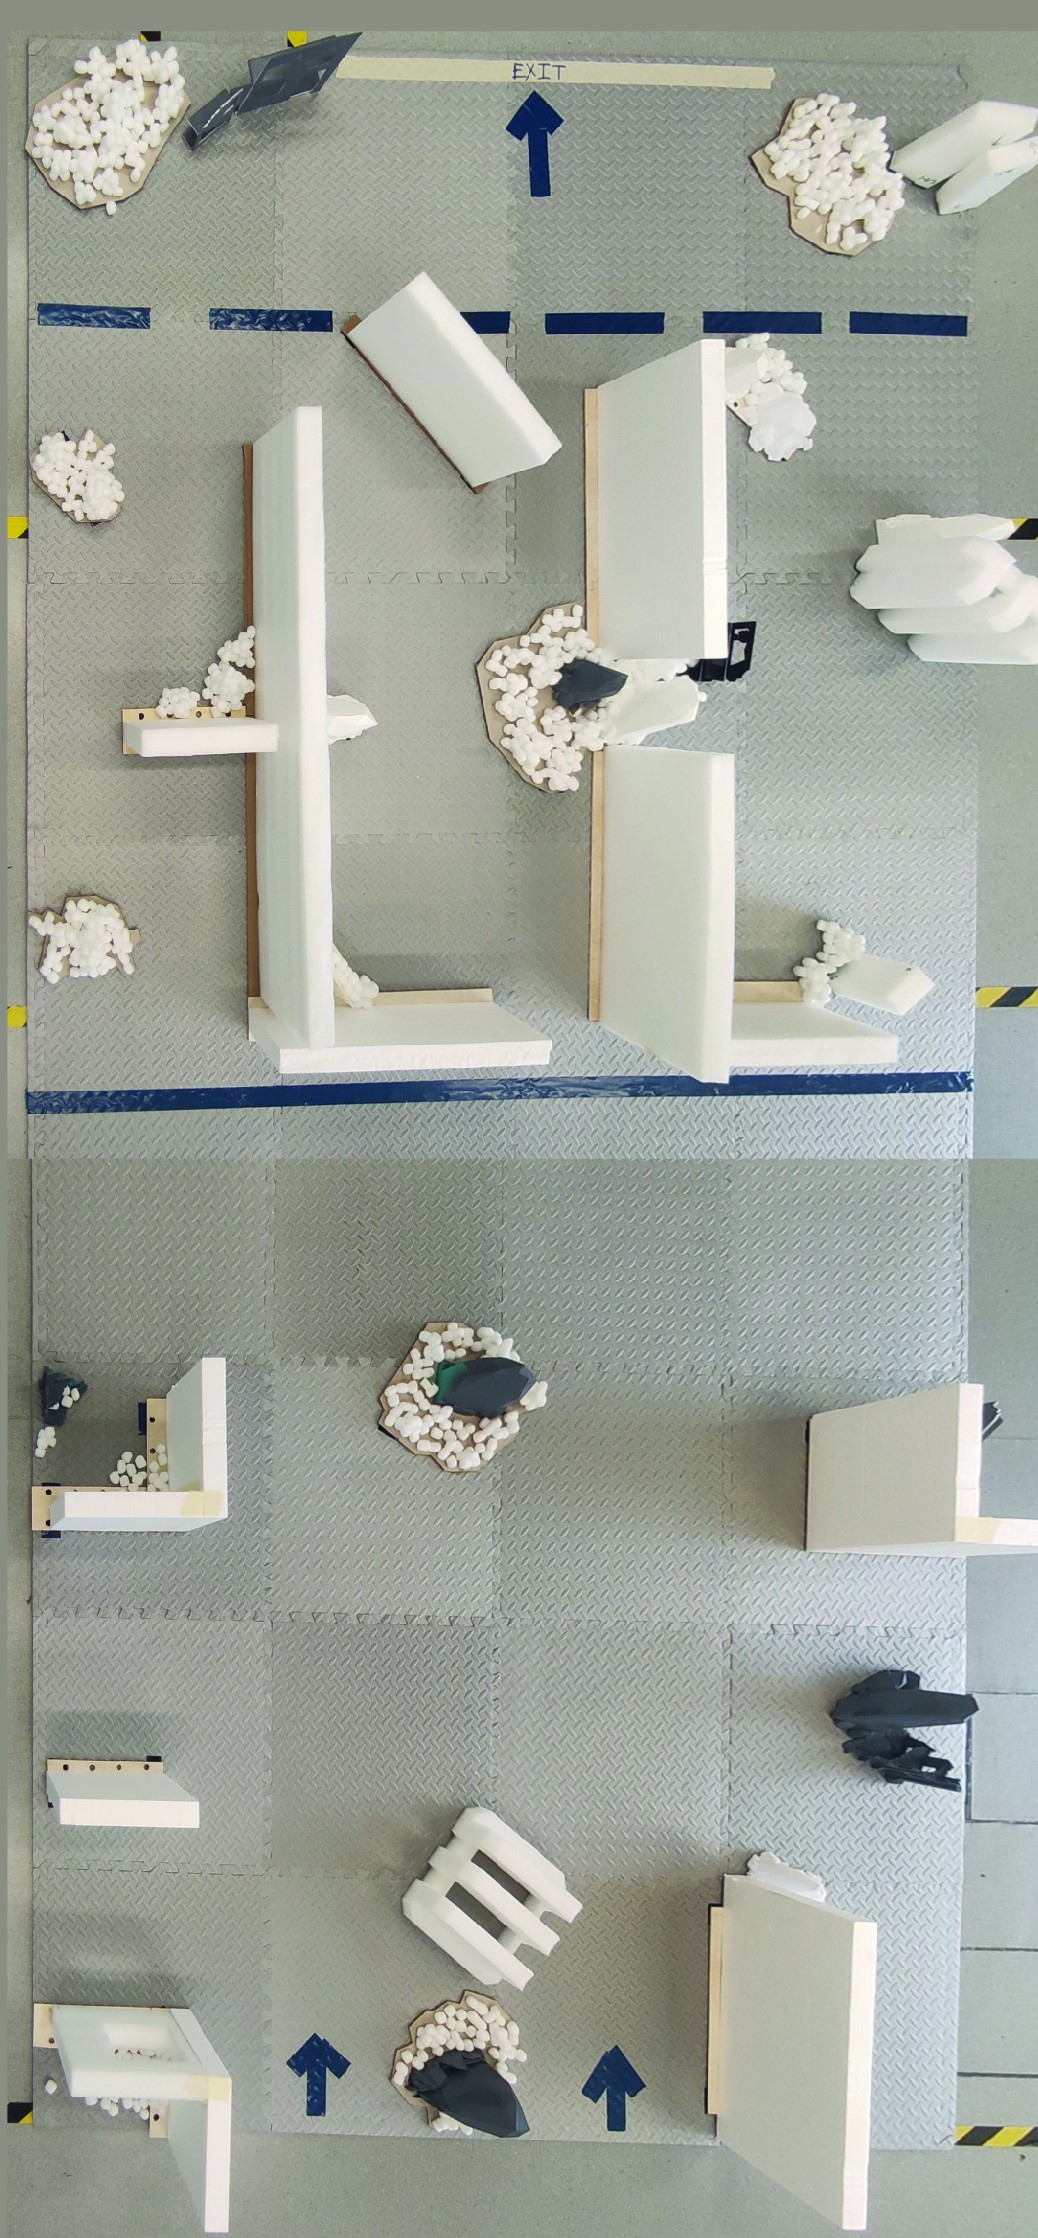
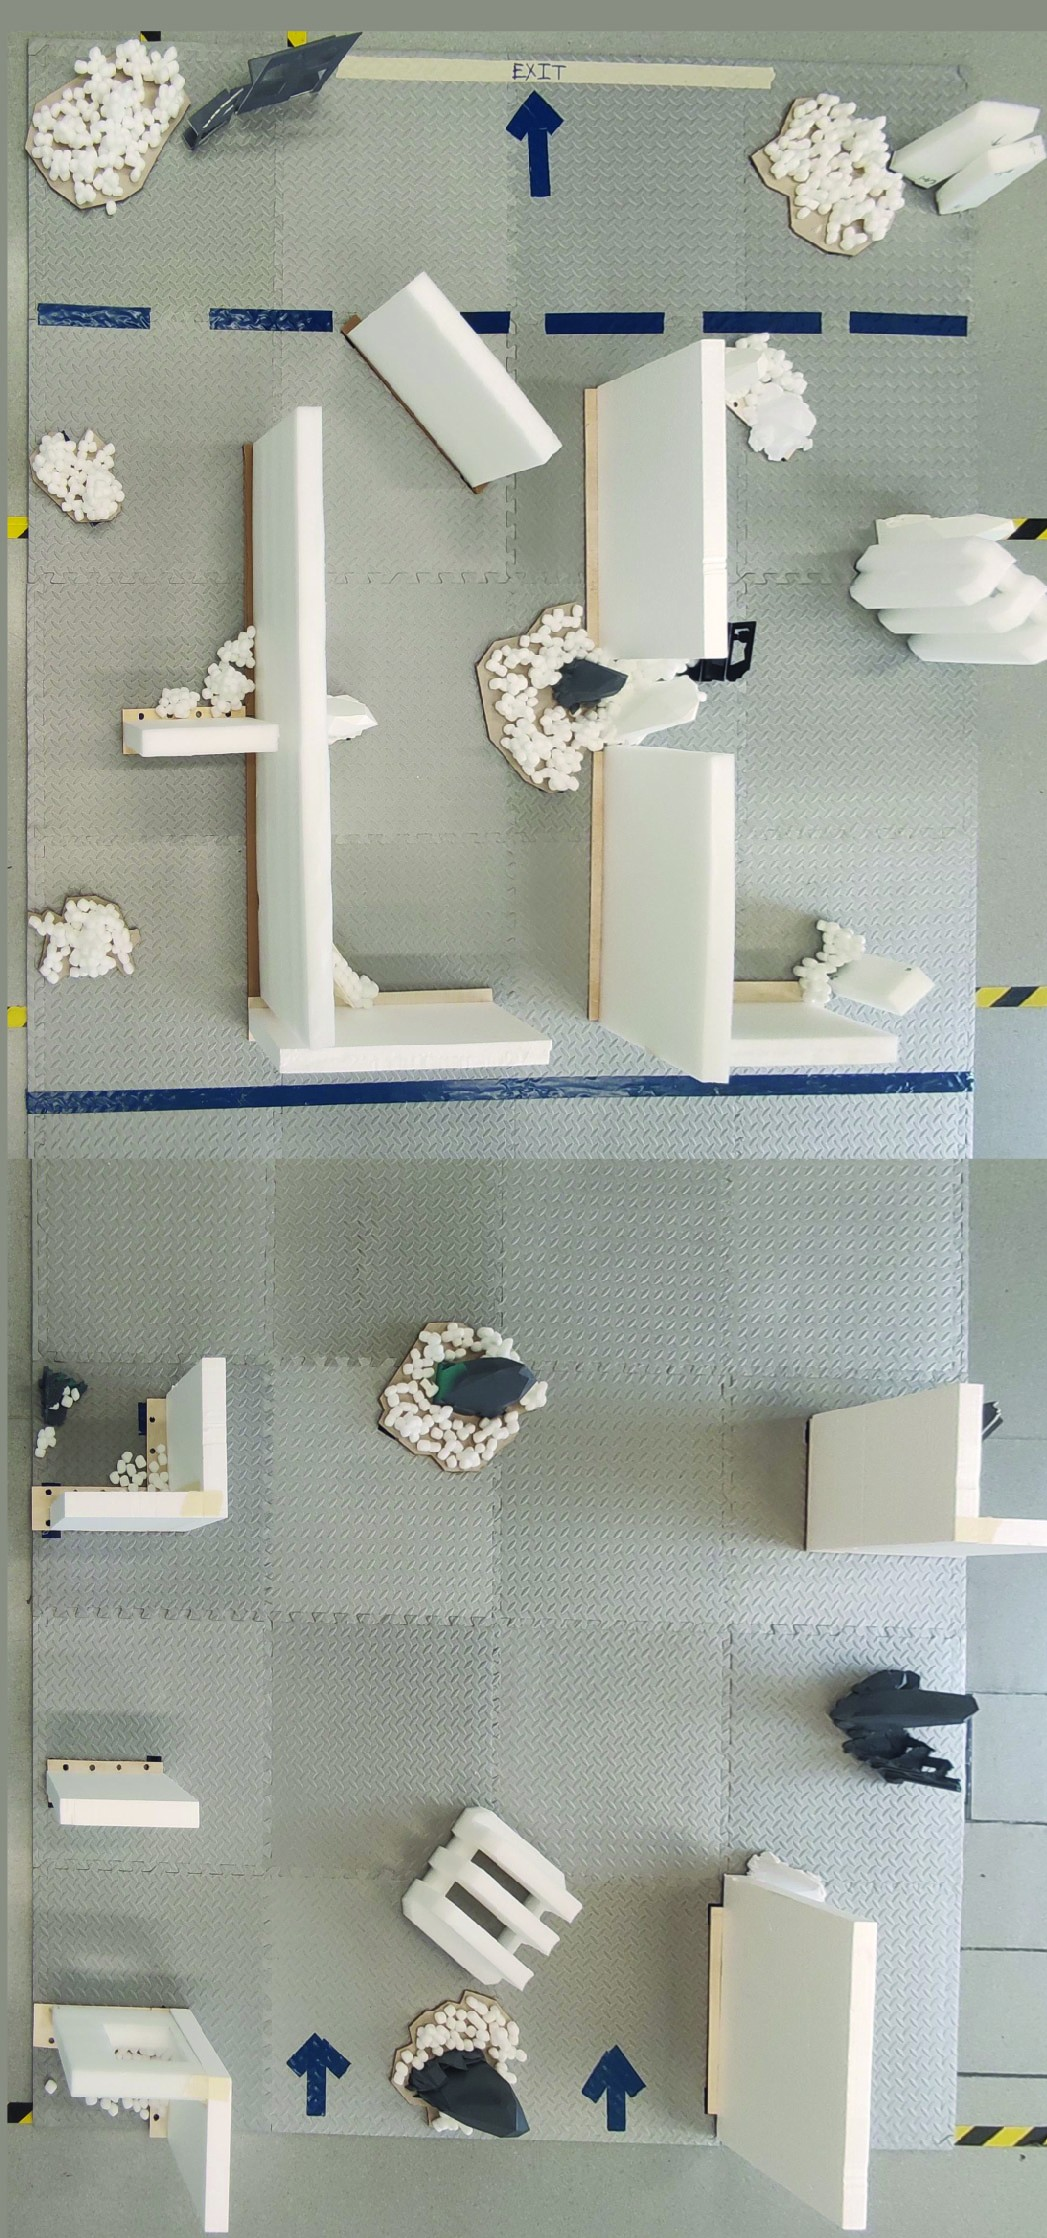
updated gamefield

diff --git a/game-field.md b/game-field.md
@@ -15,11 +15,7 @@
 The terrain consist of 4 zones, the 4 zones are then further split into 2 indoor zones and 2 outdoor zones. Each zone is $2.5m \times 2.5m$ resulting in a total terrain of $5m \times 5m$. 
 
 <p align="center">
-    <hx><b>Outdoor&emsp; &emsp; &emsp; &emsp; &emsp; &emsp; &emsp; &emsp; &emsp; &emsp; &emsp; &emsp; &emsp; &emsp; &emsp; &emsp; &emsp; &emsp; &emsp; &emsp; &emsp; &nbsp; Indoor</b></hx>
-</p>
-
-<p align="center">
-    <hx>Outdoor (Top Half)&emsp; &emsp; &emsp; &emsp; &emsp; &emsp; &emsp; &emsp; &emsp; &emsp; &emsp; &emsp; &emsp; &emsp; &emsp; &emsp; &nbsp; &nbsp; &nbsp; Indoor (Top Half)</hx>
+    <hx><b>Outdoor (Top Half)&emsp; &emsp; &emsp; &emsp; &emsp; &emsp; &emsp; &emsp; &emsp; &emsp; &emsp; &emsp; &emsp; &emsp; &emsp; &emsp; &nbsp; &nbsp; &nbsp; Indoor (Top Half)</b></hx>
 </p>
 
 <p align="center">
@@ -37,7 +33,7 @@ The terrain consist of 4 zones, the 4 zones are then further split into 2 indoor
 -->
 
 <p align="center">
-    <hx>Outdoor (Bottom Half)&emsp; &emsp; &emsp; &emsp; &emsp; &emsp; &emsp; &emsp; &emsp; &emsp; &emsp; &emsp; &emsp; &emsp; &emsp; &nbsp; &nbsp; Indoor (Bottom Half)</hx>
+    <hx><b>Outdoor (Bottom Half)&emsp; &emsp; &emsp; &emsp; &emsp; &emsp; &emsp; &emsp; &emsp; &emsp; &emsp; &emsp; &emsp; &emsp; &emsp; &nbsp; &nbsp; Indoor (Bottom Half)</b></hx>
 </p>
 
 
